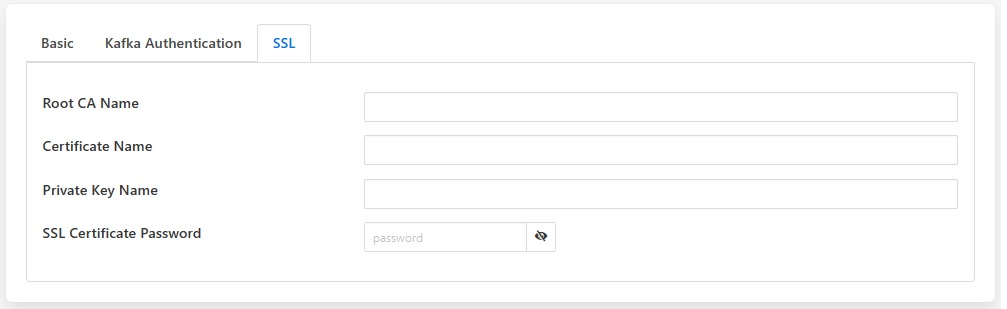
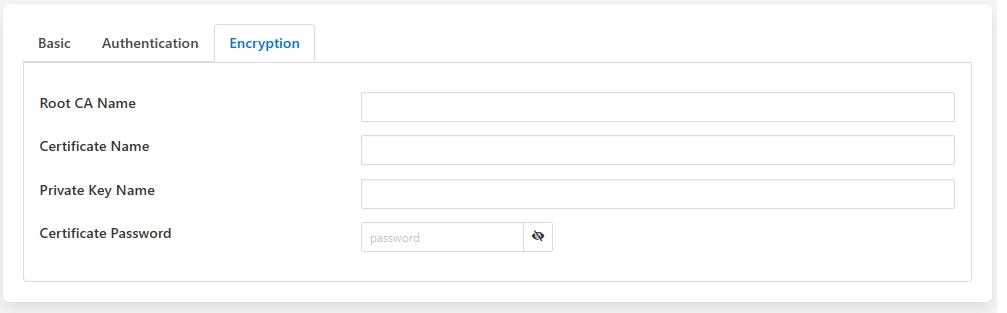
FOGL-7859: Fixed review comments

diff --git a/plugin.cpp b/plugin.cpp
@@ -58,7 +58,7 @@ static const char *default_config = QUOTE({
 		"type": "enumeration",
 		"default": "PLAINTEXT",
 		"order": "4",
-		"group": "Kafka Authentication",
+		"group": "Authentication",
 		"displayName": "Security Protocol",
 		"options" : ["PLAINTEXT", "SASL_PLAINTEXT", "SSL", "SASL_SSL"]
 		},
@@ -67,9 +67,9 @@ static const char *default_config = QUOTE({
 		"type": "enumeration",
 		"default": "PLAIN",
 		"order": "5",
-		"group": "Kafka Authentication",
-		"displayName": "SASL Mechanism",
-		"options" : ["PLAIN", "GSSAPI", "OAUTHBEARER", "SCRAM-SHA-256", "SCRAM-SHA-512"],
+		"group": "Authentication",
+		"displayName": "Mechanism",
+		"options" : ["PLAIN"],
 		"validity" : "KafkaSecurityProtocol == \"SASL_PLAINTEXT\" || KafkaSecurityProtocol == \"SASL_SSL\""
 		},
 	"KafkaUserID": {
@@ -77,7 +77,7 @@ static const char *default_config = QUOTE({
 		"type": "string",
 		"default": "user",
 		"order": "6",
-		"group": "Kafka Authentication",
+		"group": "Authentication",
 		"displayName": "User ID",
 		"validity" : "KafkaSecurityProtocol == \"SASL_PLAINTEXT\" || KafkaSecurityProtocol == \"SASL_SSL\""
 		},
@@ -86,18 +86,18 @@ static const char *default_config = QUOTE({
 		"type": "password",
 		"default": "pass",
 		"order": "7",
-		"group": "Kafka Authentication",
+		"group": "Authentication",
 		"displayName": "Password",
 		"validity" : "KafkaSecurityProtocol == \"SASL_PLAINTEXT\" || KafkaSecurityProtocol == \"SASL_SSL\""
 		},
 	"SSL_CA_File": {
-		"description": "Name of Root CA to use in certificate verification",
+		"description": "Name of the root certificate authority that will be used to verify the certificate",
 		"type": "string",
 		"default": "",
 		"order": "8",
 		"displayName": "Root CA Name",
 		"validity": "KafkaSecurityProtocol == \"SSL\" || KafkaSecurityProtocol == \"SASL_SSL\"",
-		"group": "SSL"
+		"group": "Encryption"
 		},
 	"SSL_CERT": {
 		"description": "Name of client certificate for identity authentications",
@@ -106,7 +106,7 @@ static const char *default_config = QUOTE({
 		"order": "9",
 		"displayName": "Certificate Name",
 		"validity": "KafkaSecurityProtocol == \"SSL\" || KafkaSecurityProtocol == \"SASL_SSL\"",
-		"group": "SSL"
+		"group": "Encryption"
 		},
 	"SSL_Keyfile": {
 		"description": "Name of client private key required for communication",
@@ -115,16 +115,16 @@ static const char *default_config = QUOTE({
 		"order": "10",
 		"displayName": "Private Key Name",
 		"validity": "KafkaSecurityProtocol == \"SSL\" || KafkaSecurityProtocol == \"SASL_SSL\"",
-		"group": "SSL"
+		"group": "Encryption"
 		},
 	"SSL_Password": {
 		"description": "Optional: Password to be used when loading the certificate chain",
 		"type": "password",
 		"default": "",
 		"order": "11",
-		"displayName": "SSL Certificate Password",
+		"displayName": "Certificate Password",
 		"validity": "KafkaSecurityProtocol == \"SSL\" || KafkaSecurityProtocol == \"SASL_SSL\"",
-		"group": "SSL"
+		"group": "Encryption"
 		},
 	"source": {
 		"description": "The source of data to send",

diff --git a/docs/index.rst b/docs/index.rst
@@ -16,7 +16,7 @@ The configuration of the *Kafka* plugin is very simple, consisting of four param
 
   - **Bootstrap Brokers**: A comma separate list of Kafka brokers to use to establish a connection to the Kafka system.
 
-  - **Topic**: The Kafka topic to which all data is sent.
+  - **Kafka Topic**: The Kafka topic to which all data is sent.
 
   - **Send JSON**: This controls how JSON data points should be sent to Kafka. These may be sent as strings or as JSON objects.
 
@@ -26,34 +26,38 @@ The configuration of the *Kafka* plugin is very simple, consisting of four param
 | |kafka_2| |
 +-----------+
 
-  - **Security Protocol**: Security protocol to be used to connect with kafka broker.
+  - **Security Protocol**: Security protocol to be used to connect to the kafka broker.
 
-  - **SASL Mechanism**: SASL Mechanism. Only PLAIN mechanism is supported, support for other will be added soon
+  - **Mechanism**: Authentication mechanism to be used to connect to kafka broker. Only PLAIN mechanism is supported as of now, support for other authentication mechanism will be added soon
 
-  - **User ID**: User ID to be used with SASL_PLAINTEXT and SASL_SSL.
+  - **User ID**: The User ID to use when the Mechansim is set to SASL_PLAINTEXT or SASL_SSL.
 
-  - **Password**: Password to be used with SASL_PLAINTEXT and SASL_SSL.
+  - **Password**: The Password to use when the Mechansim is set to SASL_PLAINTEXT or SASL_SSL.
 
 +-----------+
 | |kafka_3| |
 +-----------+
 
-  - **Root CA Name**: Name of Root CA to use in certificate verification.
+  - **Root CA Name**: Name of the root certificate authority that will be used to verify the certificate.
 
   - **Certificate Name**: Name of client certificate for identity authentications.
 
   - **Private Key Name**: Name of client private key required for communication.
 
-  - **SSL Certificate Password**: Optional: Password to be used when loading the certificate chain.
+  - **Certificate Password**: Optional: Password to be used when loading the certificate chain.
 
-All the certificate must be added into the certicate store of Fledge
+All the certificates must be added to the certificate store within Fledge.
 
-Kafka plugin can also be used to send data to Azure event hub. To send data to Azure event hub you need to set plugin configuration as below
+==========================
+Sending To Event Azure Hub
+==========================
+
+The Kafka plugin can be used to send data to the Azure Event Hub, this will require the following configuration item settings
 
   - **Bootstrap Brokers**: Azure event hub endpoint
   - **Topic**: Azure event hub name
   - **Security Protocol**: SASL_SSL
-  - **SASL Mechanism**: PLAIN
+  - **Mechanism**: PLAIN
   - **User ID**: $ConnectionString
   - **SSL Certificate Password**:  Must be set blank
 
